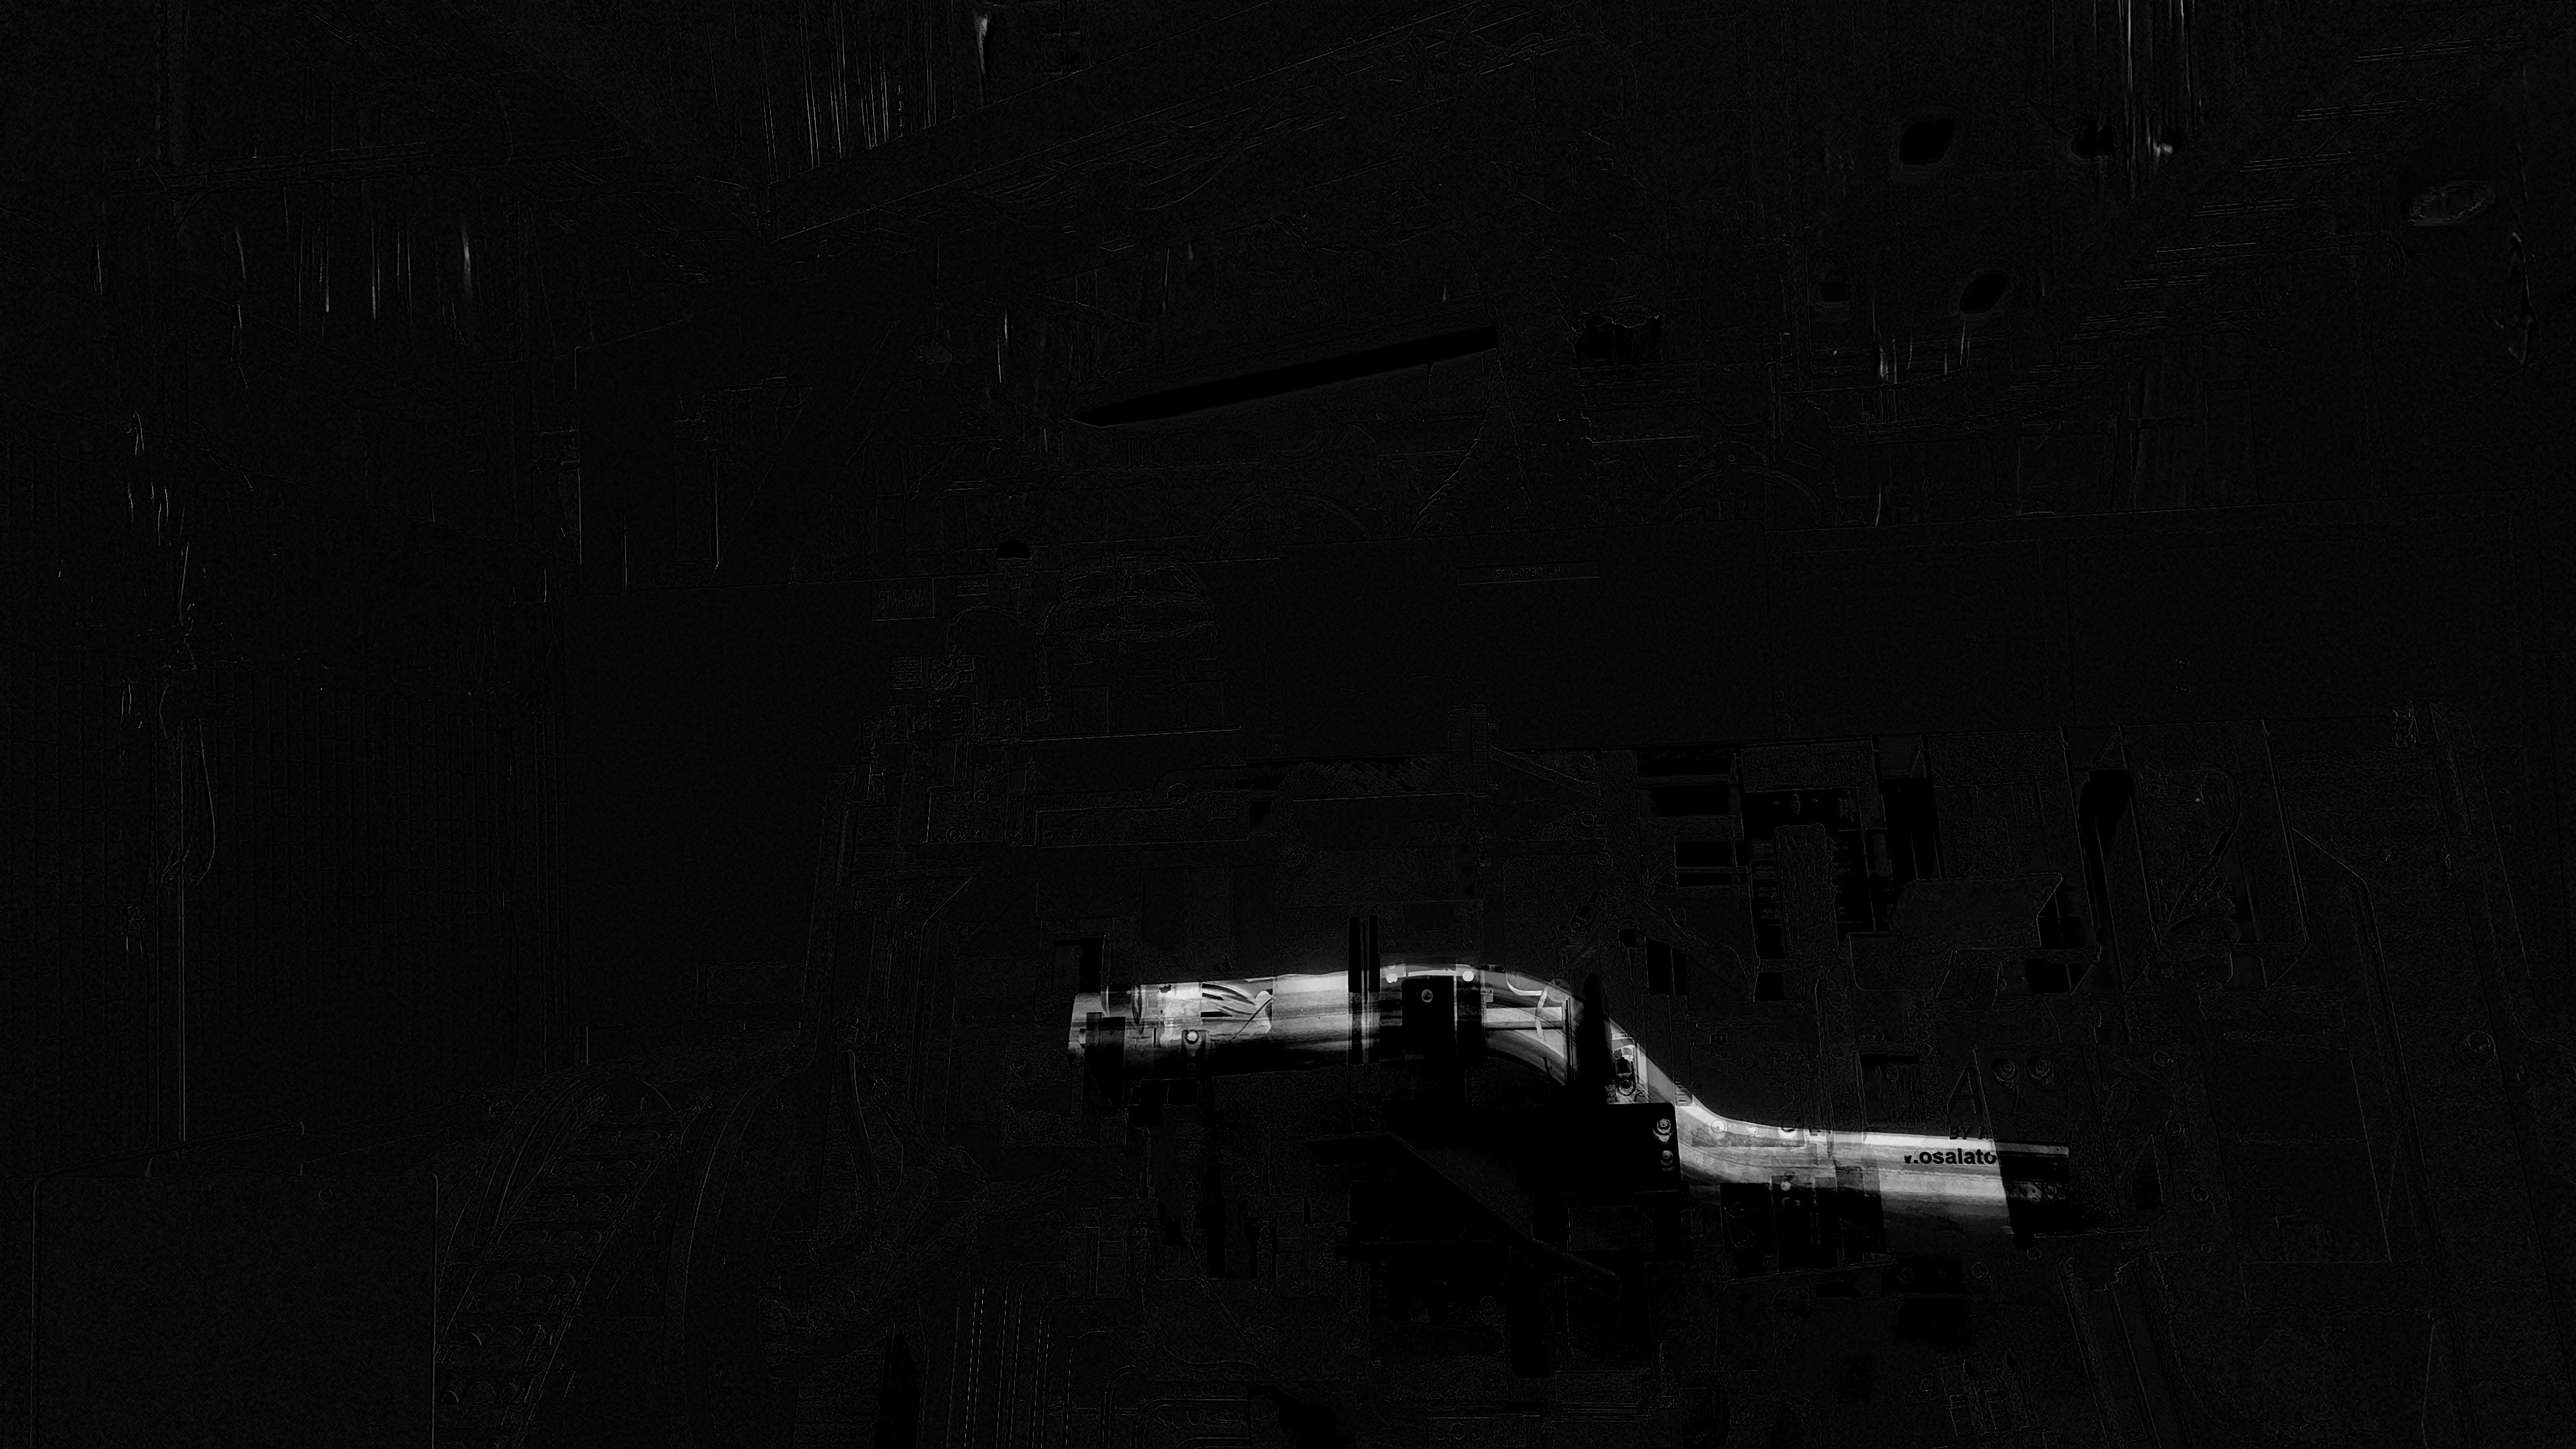
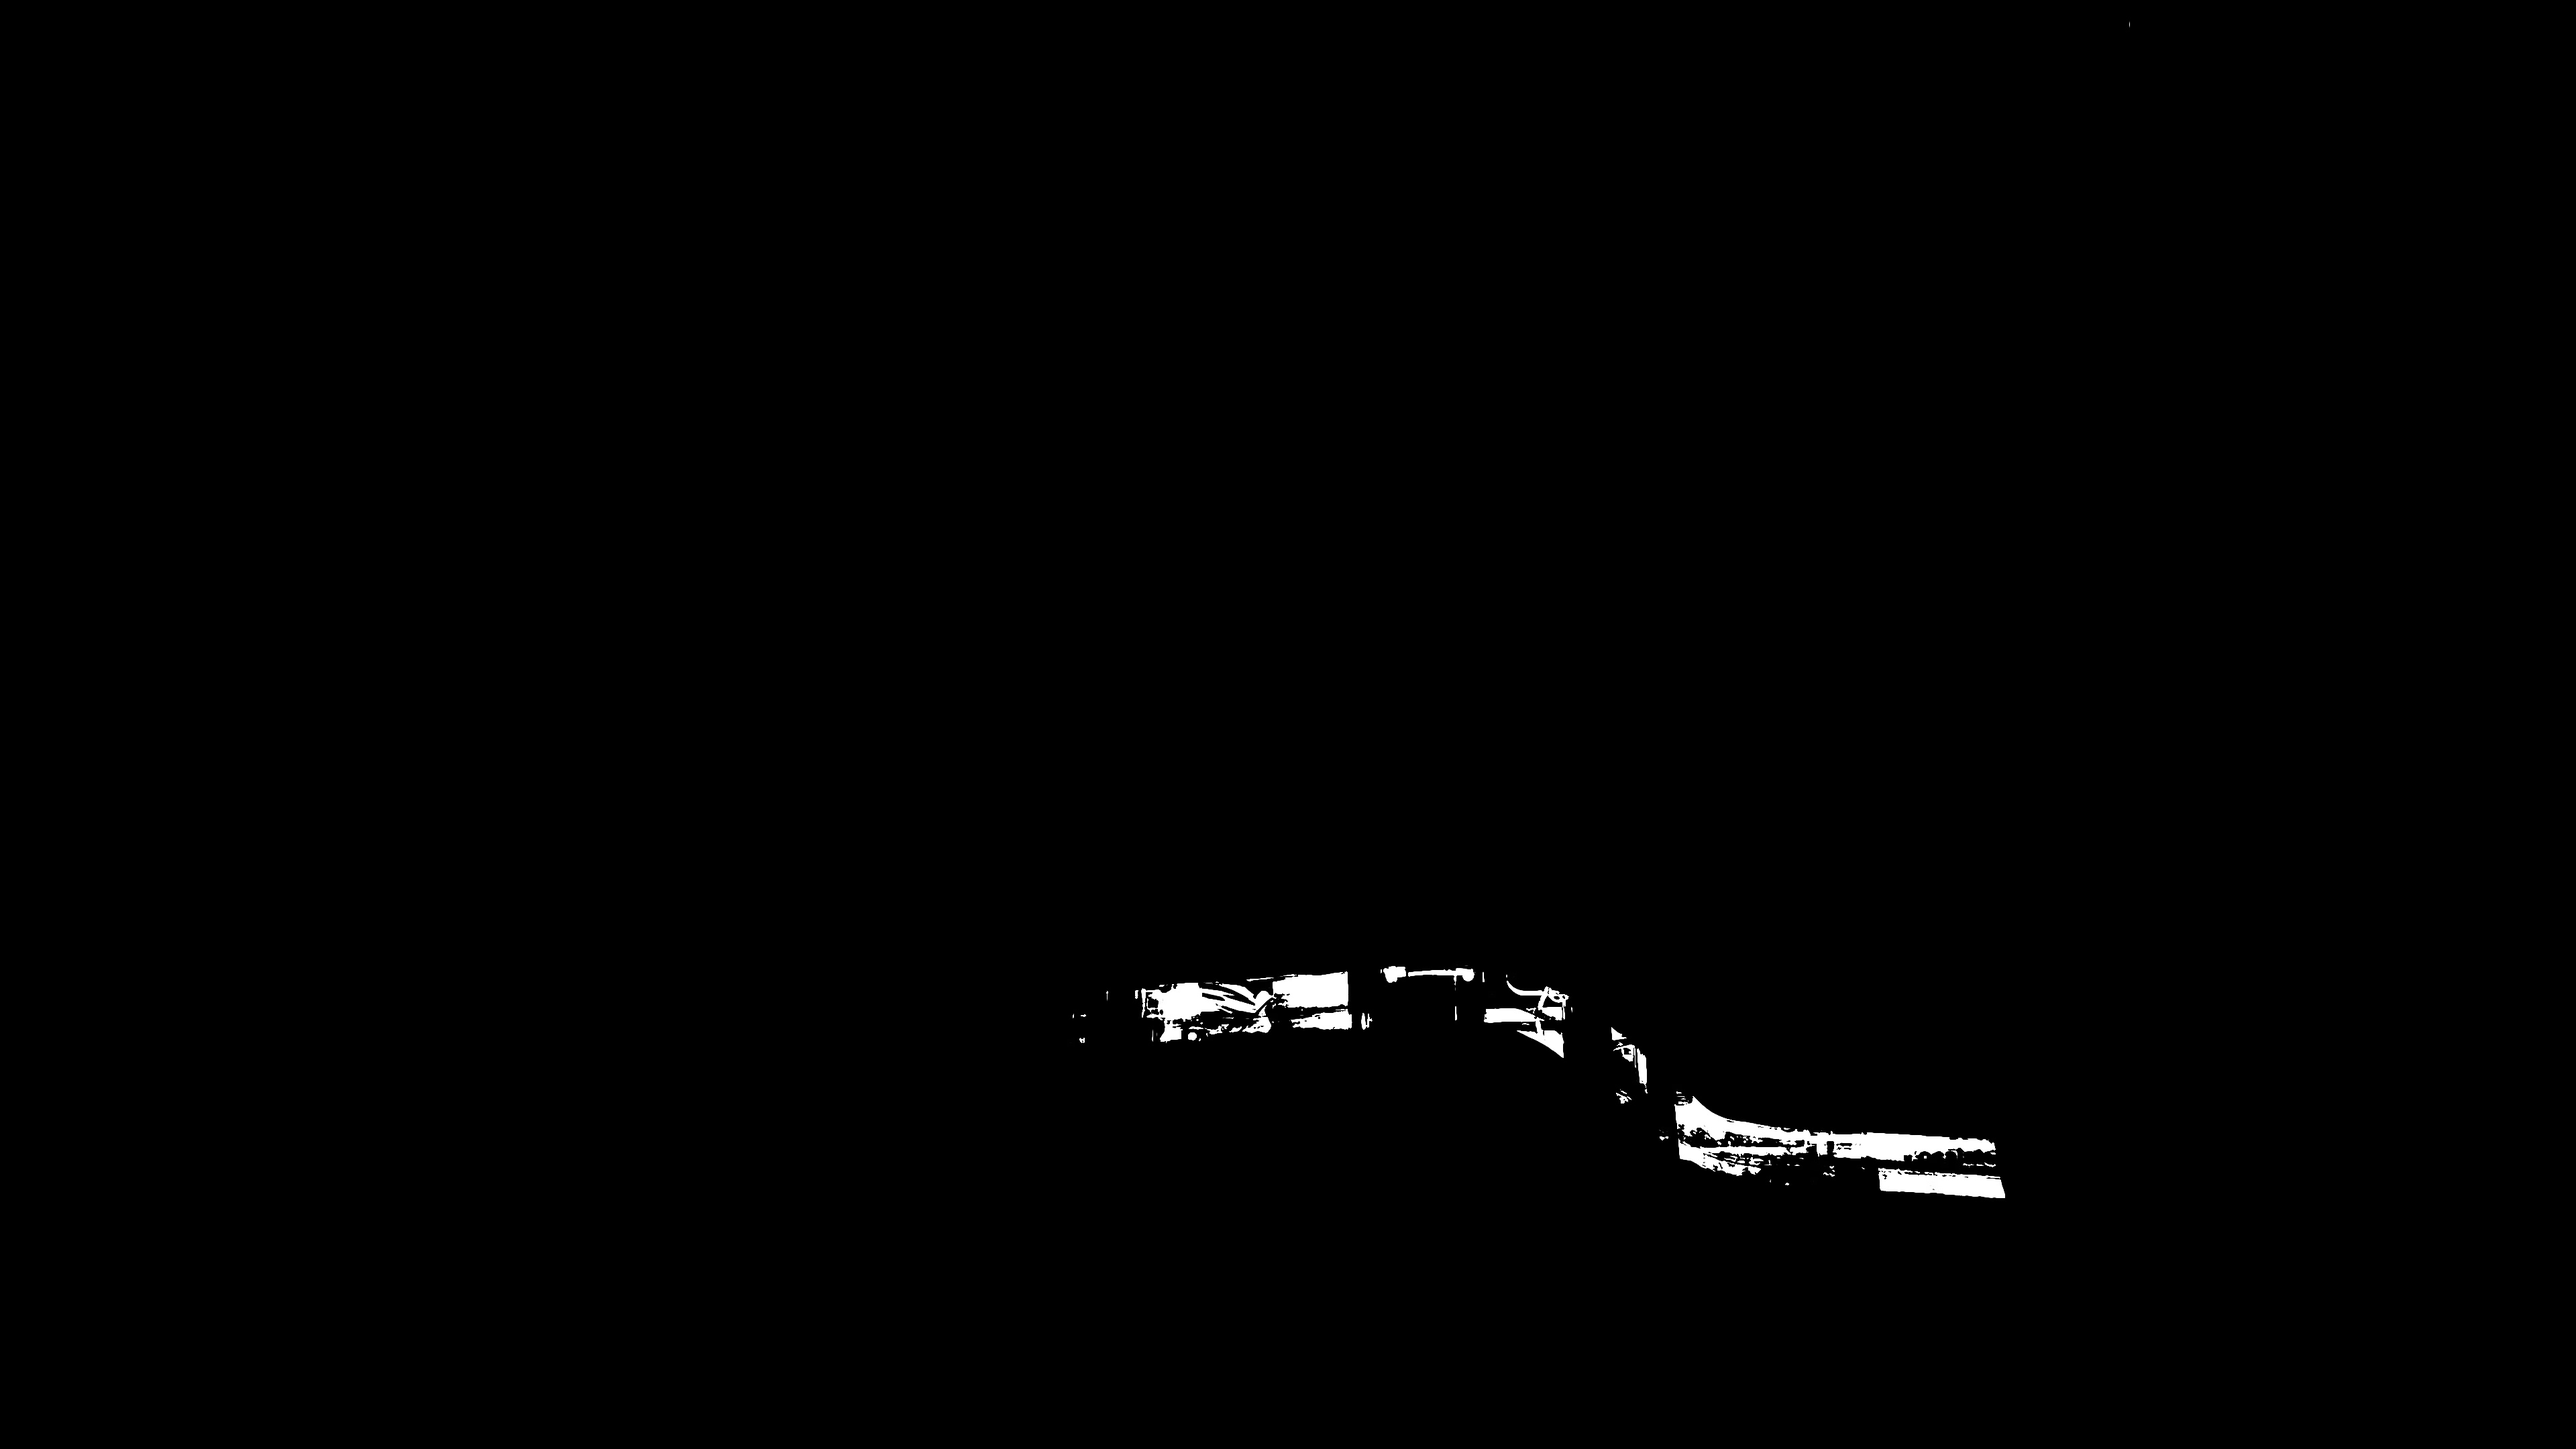
push for [ain

Changed region(s): [[0.4062, 0.6514, 0.8125, 0.8685], [0.8125, 0.0931, 0.8438, 0.1241], [0.3125, 0.062, 0.3438, 0.0931]]

diff --git a/Image-Masking/newtest.py b/Image-Masking/newtest.py
@@ -1,0 +1,153 @@
+import os, sys
+import logging
+
+import matplotlib
+if os.environ.get('DISPLAY','') == '':
+    logging.warning('No display found. Using non-interactive Agg backend')
+    matplotlib.use('Agg')
+
+import numpy as np
+# from scipy.ndimage import imread
+from matplotlib import pyplot as plt
+
+sys.path += [os.path.abspath('.'), os.path.abspath('..')]  # Add path to root
+from morphsnakes.morphsnakes import MorphGAC, MorphACWE
+from morphsnakes.morphsnakes import gborders, evolve_visual, evolve_visual3d
+import morphsnakes.multi_snakes as multi_ms
+
+
+def find_path(path):
+    for _ in range(3):
+        if not os.path.exists(path):
+            path = os.path.join('..', path)
+    return path
+
+
+PATH_OUTPUT = 'Image-Masking\mask_pics'
+PATH_IMG_NODULE = 'Image-Masking\mask_pics\MASK.jpg'
+PATH_IMG_STARFISH = 'Image-Masking\mask_pics\MASK.jpg'
+PATH_IMG_LAKES = 'Image-Masking\mask_pics\MASK.jpg'
+PATH_ARRAY_CONFOCAL = 'Image-Masking\mask_pics\MASK.jpg'
+
+
+def rgb2gray(img):
+    """Convert a RGB image to gray scale."""
+    # return 0.2989 * img[:, :, 0] + 0.587 * img[:, :, 1] + 0.114 * img[:, :, 2]
+    return np.dot(img[...,:3], [0.299, 0.587, 0.114])
+
+
+def circle_levelset(shape, center, sqradius):
+    """Build a binary function with a circle as the 0.5-levelset."""
+    grid = np.mgrid[list(map(slice, shape))].T - center
+    phi = sqradius - np.sqrt(np.sum((grid.T) ** 2, 0))
+    u = np.float_(phi > 0)
+    return u
+
+
+def test_nodule():
+    logging.info('running: test_nodule...')
+    # Load the image.
+    img = plt.imread(PATH_IMG_NODULE)[..., 0] / 255.
+    
+    # g(I)
+    gI = gborders(img, alpha=1000, sigma=5.48)
+    
+    # Morphological GAC. Initialization of the level-set.
+    levelset = circle_levelset(img.shape, (100, 126), 20)
+    mgac = MorphGAC(levelset, gI, smoothing=1, threshold=0.31, balloon=1)
+    
+    # Visual evolution.
+    fig = plt.figure()
+    evolve_visual(mgac, fig, num_iters=45, background=img)
+    assert os.path.exists(PATH_OUTPUT)
+    fig.savefig(os.path.join(PATH_OUTPUT, 'cmorphsnakes_nodule.png'))
+    plt.close(fig)
+
+
+def test_starfish():
+    logging.info('running: test_starfish...')
+    # Load the image.
+    imgcolor = plt.imread(PATH_IMG_STARFISH) / 255.
+    img = rgb2gray(imgcolor)
+    
+    # g(I)
+    gI = gborders(img, alpha=1000, sigma=2)
+    
+    # Morphological GAC. Initialization of the level-set.
+    levelset = circle_levelset(img.shape, (163, 137), 135)
+    mgac = MorphGAC(levelset, gI, smoothing=2, threshold=0.3, balloon=-1)
+    
+    # Visual evolution.
+    fig = plt.figure()
+    evolve_visual(mgac, fig, num_iters=100, background=imgcolor)
+    assert os.path.exists(PATH_OUTPUT)
+    fig.savefig(os.path.join(PATH_OUTPUT, 'cmorphsnakes_starfish.png'))
+    plt.close(fig)
+
+
+def test_lakes():
+    logging.info('running: test_lakes...')
+    # Load the image.
+    imgcolor = plt.imread(PATH_IMG_LAKES) / 255.
+    img = rgb2gray(imgcolor)
+    
+    # MorphACWE does not need g(I)
+    
+    # Morphological ACWE. Initialization of the level-set.
+    levelset = circle_levelset(img.shape, (80, 170), 25)
+    macwe = MorphACWE(levelset, img, smoothing=3, lambda1=1, lambda2=1)
+    
+    # Visual evolution.
+    fig = plt.figure()
+    evolve_visual(macwe, fig, num_iters=200, background=imgcolor)
+    assert os.path.exists(PATH_OUTPUT)
+    fig.savefig(os.path.join(PATH_OUTPUT, 'cmorphsnakes_lakes.png'))
+    plt.close(fig)
+
+
+def test_multi_lakes():
+    logging.info('running: test_multi_lakes...')
+    # Load the image.
+    imgcolor = plt.imread(PATH_IMG_LAKES) / 255.
+    img = rgb2gray(imgcolor)
+
+    # MorphACWE does not need g(I)
+
+    # Morphological ACWE. Initialization of the level-set.
+    mask = np.zeros(img.shape, dtype=int)
+    mask[circle_levelset(img.shape, (50, 100), 25) == 1] = 1
+    mask[circle_levelset(img.shape, (150, 150), 25) == 1] = 2
+    mask[circle_levelset(img.shape, (120, 220), 15) == 1] = 3
+    mask[circle_levelset(img.shape, (80, 250), 15) == 1] = 4
+
+    ms = multi_ms.MultiMorphSnakes(img, mask, MorphACWE,
+                                   dict(smoothing=3, lambda1=1, lambda2=1))
+
+    # Visual evolution.
+    fig = plt.figure()
+    evolve_visual(ms, fig, num_iters=200, background=imgcolor)
+    assert os.path.exists(PATH_OUTPUT)
+    fig.savefig(os.path.join(PATH_OUTPUT, 'cmorphsnakes_multi_lakes.png'))
+    plt.close(fig)
+
+
+def sample_confocal3d():
+    logging.info('running: sample_confocal3d...')
+    # Load the image.
+    img = np.load(PATH_ARRAY_CONFOCAL)
+    
+    # Morphological ACWE. Initialization of the level-set.
+    levelset = circle_levelset(img.shape, (30, 50, 80), 25)
+    macwe = MorphACWE(levelset, img, smoothing=1, lambda1=1, lambda2=2)
+    
+    # Visual evolution.
+    evolve_visual3d(macwe, num_iters=150, animate_ui=False, animate_delay=10)
+
+
+if __name__ == '__main__':
+    logging.basicConfig(level=logging.DEBUG)
+    test_nodule()
+    test_starfish()
+    test_lakes()
+    sample_confocal3d()
+    plt.show()

diff --git a/Image-Masking/test.py b/Image-Masking/test.py
@@ -4,37 +4,46 @@ import numpy as np
 partImg = cv.imread('Image-Masking\mask_pics\STANDARD.jpg')
 noPartImg = cv.imread('Image-Masking\mask_pics/NONE.jpg')
 
-def mse(img1, img2):
-        height, width = img1.shape
-        diffImg = cv.subtract(img1, img2)
-        err = np.sum(diffImg**2)
-        ans = err/(float(height*width)) #Closer to 0 is better
-        return ans, diffImg
+BGR = cv.subtract(partImg,noPartImg)
+BGR = cv.GaussianBlur(BGR,(3,3),0)
+# BGR = cv.cvtColor(BGR, cv.COLOR_BGR2GRAY)
+ 
 
-err, subtractOG = mse()
-#Subtracting the two images to find the part area
-# subtractOG = cv.subtract(cv.cvtColor(partImg,cv.COLOR_BGR2GRAY),cv.cvtColor(noPartImg,cv.COLOR_BGR2GRAY))
+gray = cv.cvtColor(BGR, cv.COLOR_BGR2GRAY)
+thresh = cv.threshold(gray, 130, 255, cv.THRESH_BINARY)[1]
+thresh = cv.fastNlMeansDenoising(thresh, None, 40, 7, 15)
+# HSV = cv.cvtColor(thresh,cv.COLOR_BGR2HSV)
+
+# add = cv.add(gray, thresh)
+# add = cv.medianBlur(add, 15, 15)
+# add = cv.threshold(add, 254, 255, cv.THRESH_BINARY)[1]
+
+
+
+# # detect the contours on the binary image using cv2.CHAIN_APPROX_NONE
+# contours, hierarchy = cv.findContours(image = add, mode=cv.RETR_TREE, method=cv.CHAIN_APPROX_NONE)
+
+      
+
+# # draw contours on the original image
+# image_copy = partImg.copy()
+# cv.drawContours(image=image_copy, contours=contours, contourIdx=-1, color=(0, 255, 0), thickness=1, lineType=cv.LINE_AA)
 
 # #Applying filters on image
 # alpha = 3 # Contrast control (rec 1-3)
 # beta = -300 # Brightness control (rec -300 <-> 300)
-# subtractOG = cv.convertScaleAbs(subtractOG, alpha=alpha, beta=beta)
-# subtractOG = cv.bitwise_not(subtractOG) #inverts
+# subtract = cv.convertScaleAbs(subtract, alpha=alpha, beta=beta)
+# subtract = cv.bitwise_not(subtract) #inverts
 
-# subtractOG = cv.fastNlMeansDenoising(subtractOG, None, 40, 7, 15)
-# subtractOG = cv.fastNlMeansDenoising(subtractOG, None, 40, 7, 15)
+# 
+# subtract = cv.fastNlMeansDenoising(subtract, None, 40, 7, 15)
 
 # # #Black and white configuration
 
-# subtractOG[subtractOG < 10] = 0
-# subtractOG[subtractOG != 0] = 255
-
-# # kernel = np.ones((230,230), np.uint8)  # note this is a horizontal kernel
-# # subtractOG = cv.dilate(subtractOG, kernel, iterations=1)
 
 
 # #Filling gaps
-# thresh, imgThresh = cv.threshold(subtractOG,200,255,cv.THRESH_BINARY)
+# thresh, imgThresh = cv.threshold(subtract,200,255,cv.THRESH_BINARY)
 # fillMask = imgThresh.copy()
 # height, width = imgThresh.shape[:2]
 # mask = np.zeros((height+2,width+2),np.uint8)
@@ -43,14 +52,14 @@ err, subtractOG = mse()
 # fillMask = cv.bitwise_not(fillMask)
 
 # #Filling gaps
-# subtractOG = subtractOG+fillMask
-# # subtractOG = cv.erode(subtractOG, kernel, iterations=1) 
+# subtract = subtract+fillMask
+
 
 
 
 
 #Resize and show
-img = cv.resize(subtractOG, (0,0), fx = 0.2, fy = 0.2)
-cv.imwrite("Image-Masking\mask_pics\MASK.jpg",subtractOG)
+img = cv.resize(thresh, (0,0), fx = 0.35, fy = 0.35)
+cv.imwrite("Image-Masking\mask_pics\MASK.jpg",thresh)
 cv.imshow("MASK",img)
 cv.waitKey(0)
